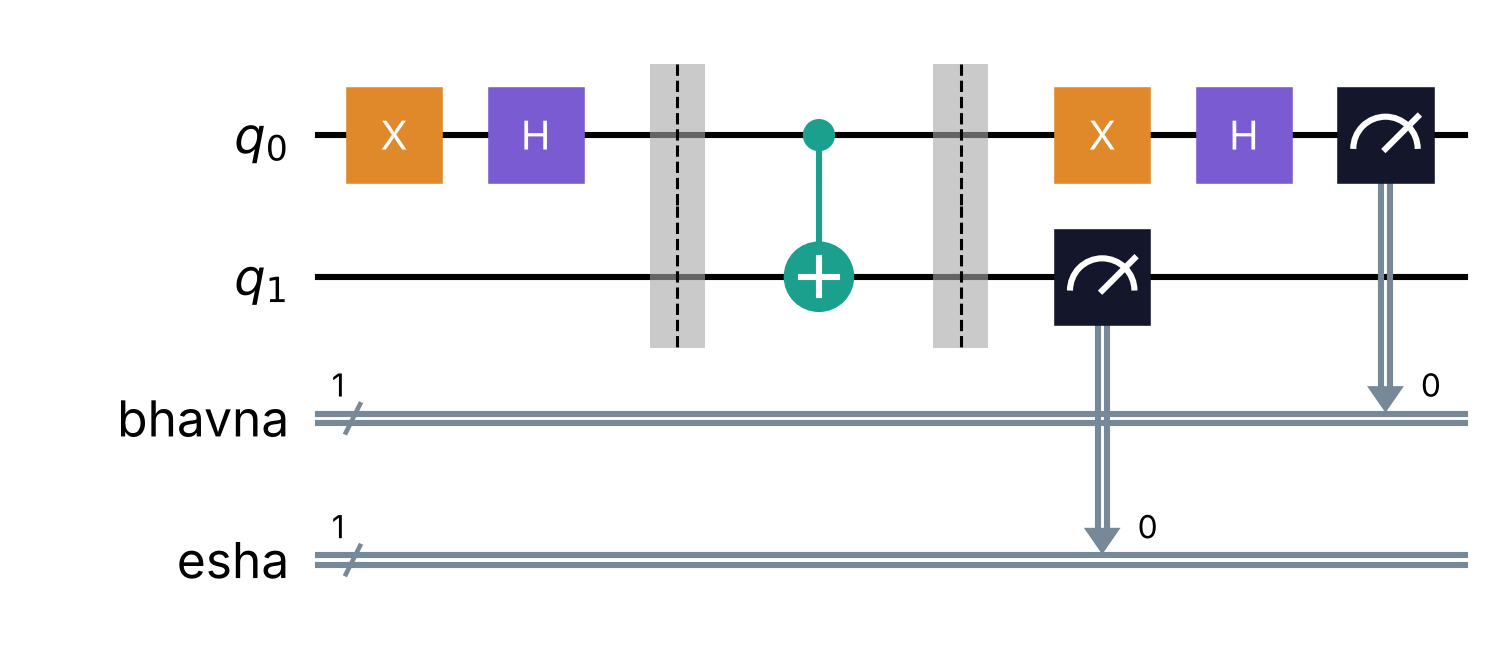
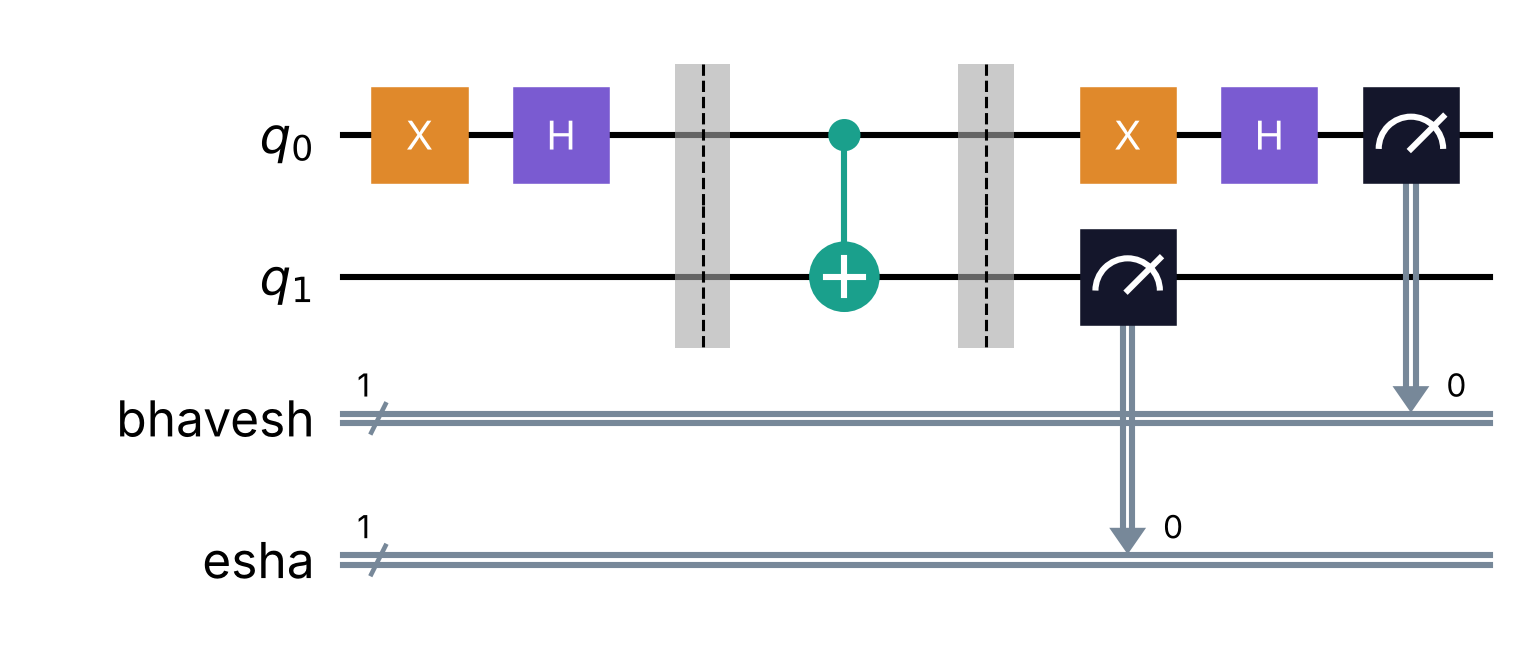
Add files via upload

diff --git a/bb84_qkd.py b/bb84_qkd.py
@@ -8,7 +8,7 @@ BB84 Quantum Key Distribution -- end-to-end simulation and post-processing with 
   2. Channel + Esha       : depolarising noise, photon loss and detector (readout) errors;
                            Esha can run an intercept-resend attack or an entangling
                            ancilla-probe (CNOT) attack on any fraction of the qubits.
-  3. Measurement/sifting : Bhavna measures in random bases; public basis reconciliation.
+  3. Measurement/sifting : Bhavesh measures in random bases; public basis reconciliation.
   4. Parameter estimation: QBER on a sacrificed sample; abort above 11 % (Shor-Preskill).
   5. Error correction    : Cascade (block parities + binary search), leak is counted.
   6. Privacy amplification: Toeplitz-matrix hashing to the final secret key.
@@ -70,12 +70,12 @@ def bb84_round_circuit(bit, basis, probe, err_x, err_z, meas_basis, probe_angle=
       Arjun  : X if bit == 1, then H if basis == X          -> |0>, |1>, |+>, |->
       Esha    : optional probe, CNOT(signal -> ancilla)      (CRY(angle) for a weaker probe)
       Channel: Pauli error X, Z or Y (depolarising noise)
-      Bhavna    : H if measuring in the X basis, then measure
+      Bhavesh    : H if measuring in the X basis, then measure
       Esha    : measures her ancilla in Z (after the bases are announced)
     """
     q = QuantumRegister(2, "q")
-    bhavna, esha = ClassicalRegister(1, "bhavna"), ClassicalRegister(1, "esha")
-    qc = QuantumCircuit(q, bhavna, esha)
+    bhavesh, esha = ClassicalRegister(1, "bhavesh"), ClassicalRegister(1, "esha")
+    qc = QuantumCircuit(q, bhavesh, esha)
     if bit:
         qc.x(0)
     if basis == X_BASIS:
@@ -95,7 +95,7 @@ def bb84_round_circuit(bit, basis, probe, err_x, err_z, meas_basis, probe_angle=
         qc.z(0)
     if meas_basis == X_BASIS:
         qc.h(0)
-    qc.measure(q[0], bhavna[0])
+    qc.measure(q[0], bhavesh[0])
     qc.measure(q[1], esha[0])
     return qc
 
@@ -126,7 +126,7 @@ class QuantumLink:
         self.circuits_run += len(pubs)
         for g, res in enumerate(results):
             idx = np.flatnonzero(inverse == g)
-            rx = np.asarray(res.data.bhavna.array).reshape(-1) & 1
+            rx = np.asarray(res.data.bhavesh.array).reshape(-1) & 1
             anc = np.asarray(res.data.esha.array).reshape(-1) & 1
             order = self.rng.permutation(len(idx))  # shots are i.i.d.; assign them at random
             out_rx[idx], out_anc[idx] = rx[order], anc[order]
@@ -140,7 +140,7 @@ def depolarising_errors(n, p, rng):
 
 
 def transmit(n, noise, loss, readout, attack, esha_fraction, link, rng):
-    """Arjun -> (Esha) -> noisy channel -> Bhavna. Returns a dict of per-round records."""
+    """Arjun -> (Esha) -> noisy channel -> Bhavesh. Returns a dict of per-round records."""
     a_bits, a_bases = rng.integers(0, 2, n), rng.integers(0, 2, n)
     b_bases = rng.integers(0, 2, n)
     attacked = (rng.random(n) < esha_fraction) if attack != "none" else np.zeros(n, dtype=bool)
@@ -229,16 +229,16 @@ def cascade(a_key, b_key, qber, rng, passes=6):
     Cascade error correction. Each pass shuffles the key, compares block parities over the
     public channel and binary-searches every block whose parity differs. Correcting a bit
     flips the parity of the blocks that contained it in earlier passes, so those blocks are
-    searched again (the "cascade" step). Returns Bhavna's corrected key and the number of
+    searched again (the "cascade" step). Returns Bhavesh's corrected key and the number of
     parity bits disclosed.
     """
     n = len(a_key)
-    bhavna, leaked = b_key.copy(), 0
+    bhavesh, leaked = b_key.copy(), 0
     if n < 2:
-        return bhavna, leaked
+        return bhavesh, leaked
 
     def mismatch(idx):
-        return (int(a_key[idx].sum()) + int(bhavna[idx].sum())) % 2 == 1
+        return (int(a_key[idx].sum()) + int(bhavesh[idx].sum())) % 2 == 1
 
     def bisect(idx):
         nonlocal leaked
@@ -246,7 +246,7 @@ def cascade(a_key, b_key, qber, rng, passes=6):
             half = idx[: len(idx) // 2]
             leaked += 1
             idx = half if mismatch(half) else idx[len(idx) // 2:]
-        bhavna[idx[0]] ^= 1
+        bhavesh[idx[0]] ^= 1
         return idx[0]
 
     block = int(min(max(4, round(0.73 / max(qber, 0.005))), max(2, n // 2)))
@@ -267,7 +267,7 @@ def cascade(a_key, b_key, qber, rng, passes=6):
                 if mismatch(blk):
                     queue.append(bisect(blk))
         block = min(block * 2, max(2, n // 2))
-    return bhavna, leaked
+    return bhavesh, leaked
 
 
 def toeplitz_hash(key, out_len, seed_bits):
@@ -441,7 +441,7 @@ def report(res, keys):
         return
     print(f"Cascade leak                  : {res['ec_leak_bits']} parity bits, residual errors {res['residual_errors']}")
     print(f"final secret key (Toeplitz)   : {res['final_key_bits']} bits = {res['secret_bits_per_qubit']:.3f} per qubit sent")
-    print(f"Arjun / Bhavna key fingerprints  : {fingerprint(keys[0])} / {fingerprint(keys[1])}   match = {res['keys_match']}")
+    print(f"Arjun / Bhavesh key fingerprints  : {fingerprint(keys[0])} / {fingerprint(keys[1])}   match = {res['keys_match']}")
 
 
 def main():
@@ -461,7 +461,7 @@ def main():
     args, _ = ap.parse_known_args()  # also works inside Jupyter / Colab
     os.makedirs(args.outdir, exist_ok=True)
 
-    print("\n=== Example round: Arjun sends |-> (bit 1, X basis), Esha probes, Bhavna measures in X ===")
+    print("\n=== Example round: Arjun sends |-> (bit 1, X basis), Esha probes, Bhavesh measures in X ===")
     print(bb84_round_circuit(1, X_BASIS, 1, 0, 0, X_BASIS).draw(output="text"))
 
     print(f"\n=== Run: {args.qubits} qubits | noise {args.noise} | loss {args.loss} | readout {args.readout} "

diff --git a/README.md b/README.md
@@ -6,7 +6,7 @@ Author: Sandeep S (Team Lead)
 
 ## Problem statement
 
-Simulate the complete BB84 protocol between Arjun and Bhavna in the presence of an eavesdropper
+Simulate the complete BB84 protocol between Arjun and Bhavesh in the presence of an eavesdropper
 (Esha) and a noisy channel, extract a verified secret key with classical post-processing, measure
 how much information leaks, and compare QKD with NIST post-quantum key exchange (ML-KEM / Kyber).
 
@@ -21,7 +21,7 @@ Every round is a two-qubit Qiskit circuit run on the `StatevectorSampler` primit
 | Channel noise | Depolarising noise (random X, Y or Z gate), photon loss, detector bit-flips |
 | Intercept-resend attack | Esha measures in a random basis and re-prepares the state she saw |
 | Entangling probe attack | Esha couples an ancilla with `CNOT` (or a weaker `CRY`) and reads it in Z |
-| Measurement and sifting | Bhavna measures in a random basis; rounds with matching bases are kept |
+| Measurement and sifting | Bhavesh measures in a random basis; rounds with matching bases are kept |
 | Parameter estimation | QBER on a sacrificed random sample; abort above 11 % (Shor-Preskill) |
 | Error correction | Cascade: block parities, binary search and back-tracking; leak is counted |
 | Privacy amplification | Toeplitz-matrix hashing to the final key length |
@@ -50,7 +50,7 @@ Outputs are written to `results_bb84/`: `bb84_sweeps.csv`, `bb84_analysis.png`, 
 
 | Scenario (4096 qubits) | QBER | Delta I | Outcome |
 |---|---|---|---|
-| 2 % depolarising noise, no Esha | 1.2 % (sample) | +0.89 | 1127-bit secret key, Arjun and Bhavna match |
+| 2 % depolarising noise, no Esha | 1.2 % (sample) | +0.89 | 1127-bit secret key, Arjun and Bhavesh match |
 | Full intercept-resend | 24.8 % (sifted key) | -0.33 | Abort, no key |
 | Esha attacks 20 % of qubits | about 4.5 % | +0.64 | Key of about 520 to 550 bits |
 
@@ -98,4 +98,4 @@ ML-KEM is not executed or benchmarked in this repository; its figures are the pu
 
 ### Templates and acknowledgements
 
-No external code template or notebook was copied. Part of the code  was written for this submission with AI assistance (Claude, Anthropic).
+No external code template or notebook was copied. The code and slides were written for this submission with AI assistance (Claude, Anthropic).
